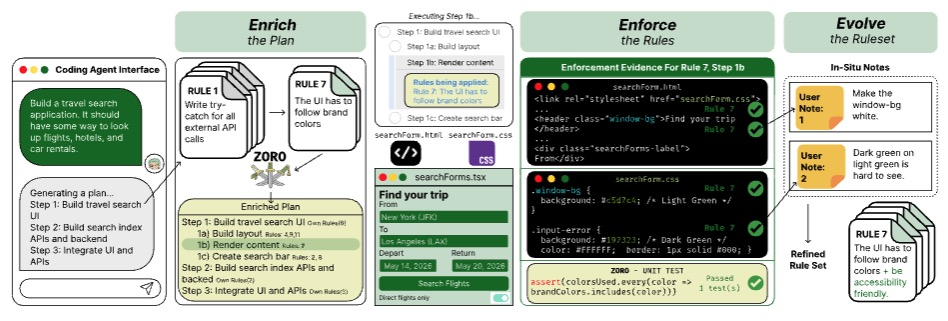
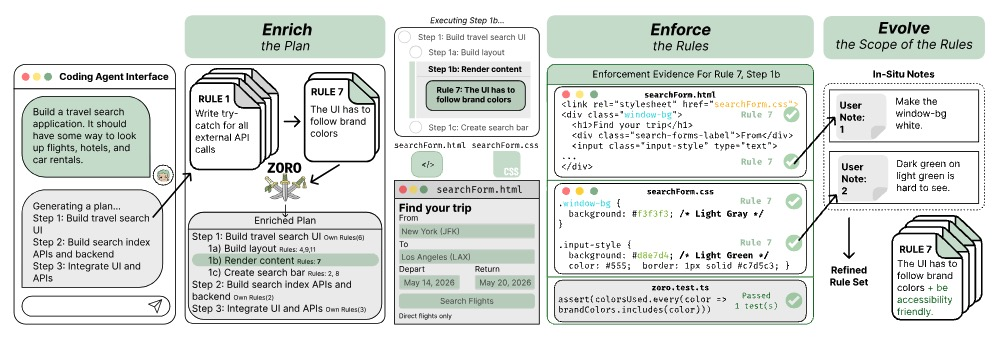
update zoro

diff --git a/index.html b/index.html
@@ -73,7 +73,7 @@
             <div class="paper-img"><img src="images/zoro.jpg" alt="Zoro"></div>
             <div class="paper-text">
               <span class="venue">UIST 2026</span>
-              <span class="papertitle">Zoro: Active Rules for Reliable Vibe Coding</span>
+              <span class="papertitle">Zoro: Active Controls to Support Rule Following in Vibe Coding</span>
               <span class="authors">Jenny Ma, <span class="me">Sitong Wang</span>, Joshua Kung, Lydia&nbsp;Chilton</span>
               <div class="paper-links">
                 <a href="https://arxiv.org/pdf/2604.15625" target="_blank">Paper</a>
